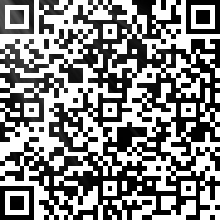
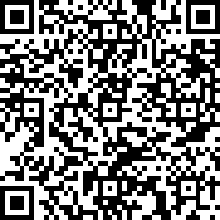
update

diff --git a/source/_posts/我的演说.md b/source/_posts/我的演说.md
@@ -2,7 +2,7 @@
 layout:     keynote
 title:      "我的演说"
 subtitle:   "Keynote: 自豪的使用黄玄的yanshuo.io"
-iframe:     "http://yanshuo.io/assets/player/?deck=585885548e450a006c7bf269"
+iframe:     "http://yanshuo.io/assets/player/?deck=5864b098128fe10069f6aa49"
 date:       2016-12-20 09:16:59
 author:     "Bruce Yang"
 header-img: "post-bg-js-version.jpg"
@@ -13,7 +13,7 @@ tags:
 
 > 使用的是[黄玄](https://huangxuan.me/about/)开发的[演说](yanshuo.io)在线工具
 
-## [Watch Fullscreen →](https://yanshuo.io/assets/player/?deck=585885548e450a006c7bf269#/)
+## [Watch Fullscreen →](http://yanshuo.io/assets/player/?deck=5864b098128fe10069f6aa49)
 ![你可以通过扫描二维码在手机上观看](/img/演说Test.png)
 <p style="text-align:center;">
    你可以通过扫描二维码在手机上观看
